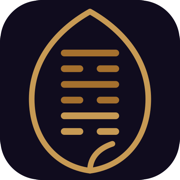
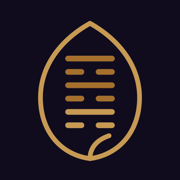
v1.03

diff --git a/index.html b/index.html
@@ -9,13 +9,13 @@
   <link rel="preconnect" href="https://fonts.gstatic.com" crossorigin />
   <link href="https://fonts.googleapis.com/css2?family=Inter:wght@300;400;500;600&family=Lora:ital,wght@0,400;0,500;0,600;0,700;1,400;1,500&display=swap" rel="stylesheet" />
   <link rel="icon" href="assets/favicon.svg" type="image/svg+xml" />
-  <link rel="manifest" href="manifest.webmanifest?v=20260918c" />
+  <link rel="manifest" href="manifest.webmanifest?v=20260918f" />
   <link rel="apple-touch-icon" href="assets/apple-touch-icon.png" />
   <meta name="apple-mobile-web-app-capable" content="yes" />
   <meta name="apple-mobile-web-app-status-bar-style" content="black-translucent" />
   <meta name="apple-mobile-web-app-title" content="Seed Oracle" />
   <meta name="theme-color" content="#100c1e" />
-  <meta name="version" content="2026-09-18e" />
+  <meta name="version" content="2026-09-18f" />
   <meta property="og:type" content="website" />
   <meta property="og:title" content="Seed Oracle: BIP39 × I Ching" />
   <meta property="og:description" content="Cast I Ching hexagrams line by line until they become a BIP39 seed phrase. For wonder, not for storing real funds." />

diff --git a/sw.js b/sw.js
@@ -1,10 +1,10 @@
 'use strict';
 
-var CACHE_NAME = 'seed-oracle-2026-09-18e';
+var CACHE_NAME = 'seed-oracle-2026-09-18f';
 var APP_SHELL = [
   './',
   './index.html',
-  './manifest.webmanifest?v=20260918c',
+  './manifest.webmanifest?v=20260918f',
   './css/site.css?v=20260918e',
   './js/site.js?v=20260918c',
   './js/ichingjudgments.js',
@@ -19,6 +19,7 @@ var APP_SHELL = [
   './assets/favicon.svg',
   './assets/favicon.ico',
   './assets/apple-touch-icon.png',
+  './assets/app-icon.svg',
   './assets/icon-192.png',
   './assets/icon-512.png',
   './assets/logo-mark.svg'

diff --git a/README.md b/README.md
@@ -54,6 +54,7 @@ Before publishing, set the production canonical and Open Graph URLs in
 - `js/site.js` — header, accessibility helpers, and collapsible sections.
 - `js/seedoracle*.js` — casting, state, hexagram, and Bitcoin teaching logic.
 - `js/stardata.js` and `js/stars.js` — fixed-sky catalogue data and renderer.
+- `assets/app-icon.svg` — full-bleed source artwork for install icons.
 - `manifest.webmanifest` and `sw.js` — install metadata and offline app shell.
 - `tests/seedoracle-vectors.cjs` — deterministic cryptographic test vectors.
 
